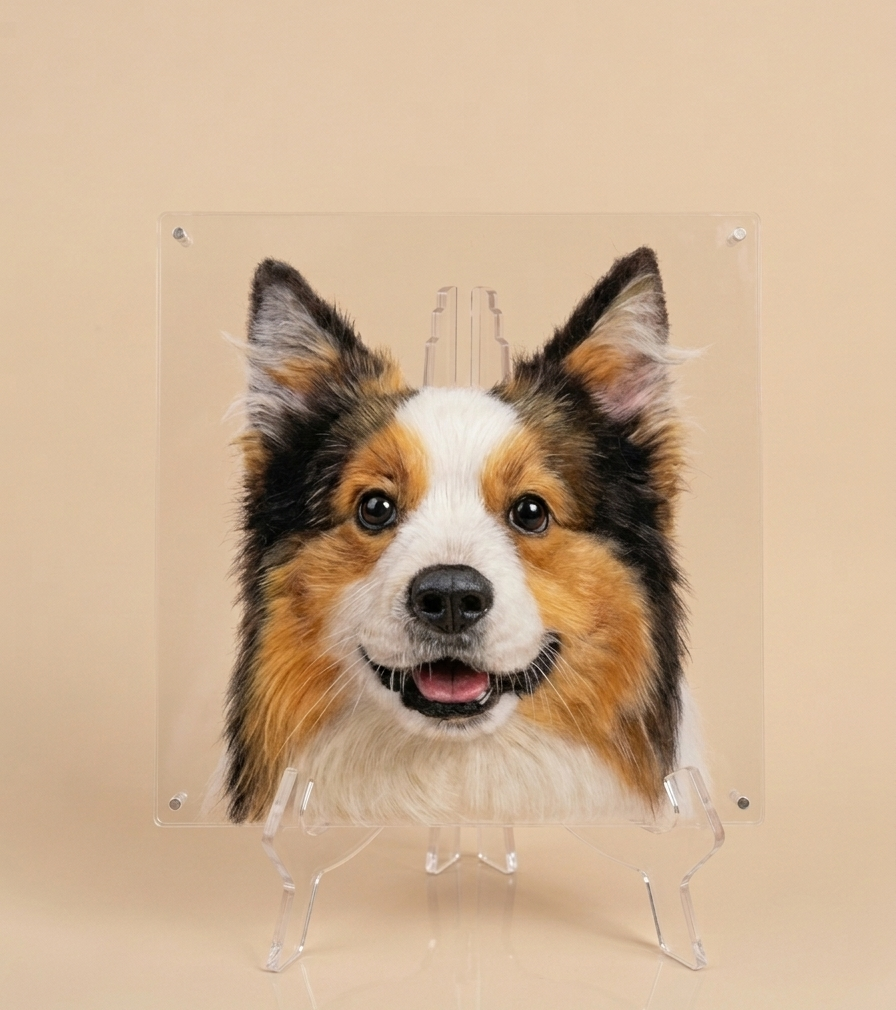
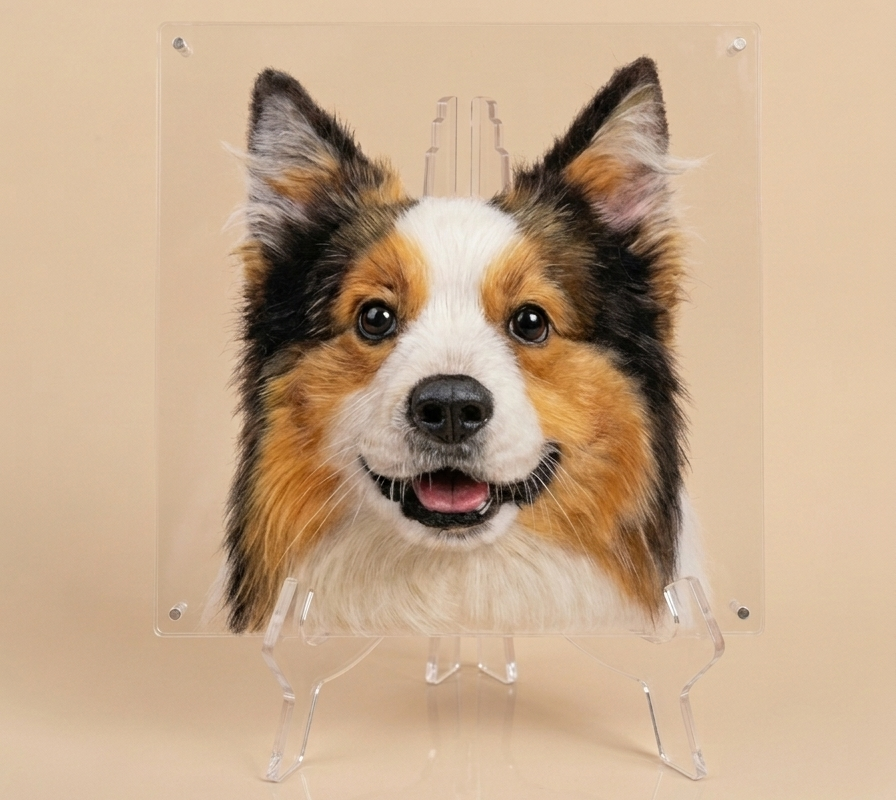
Fix Single Pet Collection gallery image cropping
Switch the gallery image box from a fixed pixel height to an
aspect-ratio (1.4), which stays consistent across breakpoints instead
of becoming extremely wide/short at desktop and unpredictable
elsewhere. Re-crop the 25x25 and 30x30 source photos, centered on the
frame's true bounds (not the source image's own center, which was
off), so the acrylic stand crops away cleanly while the frame and
artwork stay fully visible and centered. Bump the 20x20/20x30/25x25
images' zoom slightly per feedback.

diff --git a/src/components/collection/translations.ts b/src/components/collection/translations.ts
@@ -114,15 +114,16 @@ export interface GalleryItem {
   name: string;
   src: string;
   objectPosition?: string;
+  objectFit?: "cover" | "contain";
   scale?: number;
   transform?: string;
 }
 
 export const SINGLE_GALLERY_ITEMS: GalleryItem[] = [
-  { name: "20×20 cm", src: "/images/Single Pet Collection-20x20cm.jpg" },
-  { name: "20×30 cm", src: "/images/Single Pet Collection-20x30cm.jpg", scale: 1.25 },
-  { name: "25×25 cm", src: "/images/Single Pet Collection-25x25cm.png" },
-  { name: "30×30 cm", src: "/images/Single Pet Collection-30x30cm.png" },
+  { name: "20×20 cm", src: "/images/Single Pet Collection-20x20cm.jpg", scale: 1.05 },
+  { name: "20×30 cm", src: "/images/Single Pet Collection-20x30cm.jpg", scale: 1.365 },
+  { name: "25×25 cm", src: "/images/Single Pet Collection-25x25cm-v2.png", scale: 1.06 },
+  { name: "30×30 cm", src: "/images/Single Pet Collection-30x30cm.png", objectPosition: "50% 0%" },
 ];
 
 export const MULTI_GALLERY_ITEMS: GalleryItem[] = [

diff --git a/src/components/collection/CollectionPage.tsx b/src/components/collection/CollectionPage.tsx
@@ -26,6 +26,7 @@ function Gallery({ items }: { items: GalleryItem[] }) {
             alt={item.name}
             className={styles.galleryImage}
             objectPosition={item.objectPosition}
+            objectFit={item.objectFit}
             imageStyle={
               item.transform ? { transform: item.transform } : item.scale ? { transform: `scale(${item.scale})` } : undefined
             }

diff --git a/src/components/collection/CollectionPage.module.css b/src/components/collection/CollectionPage.module.css
@@ -64,7 +64,7 @@
 
 .galleryImage {
   width: 100%;
-  height: 170px;
+  aspect-ratio: 1.4;
 }
 
 .galleryLabel {
